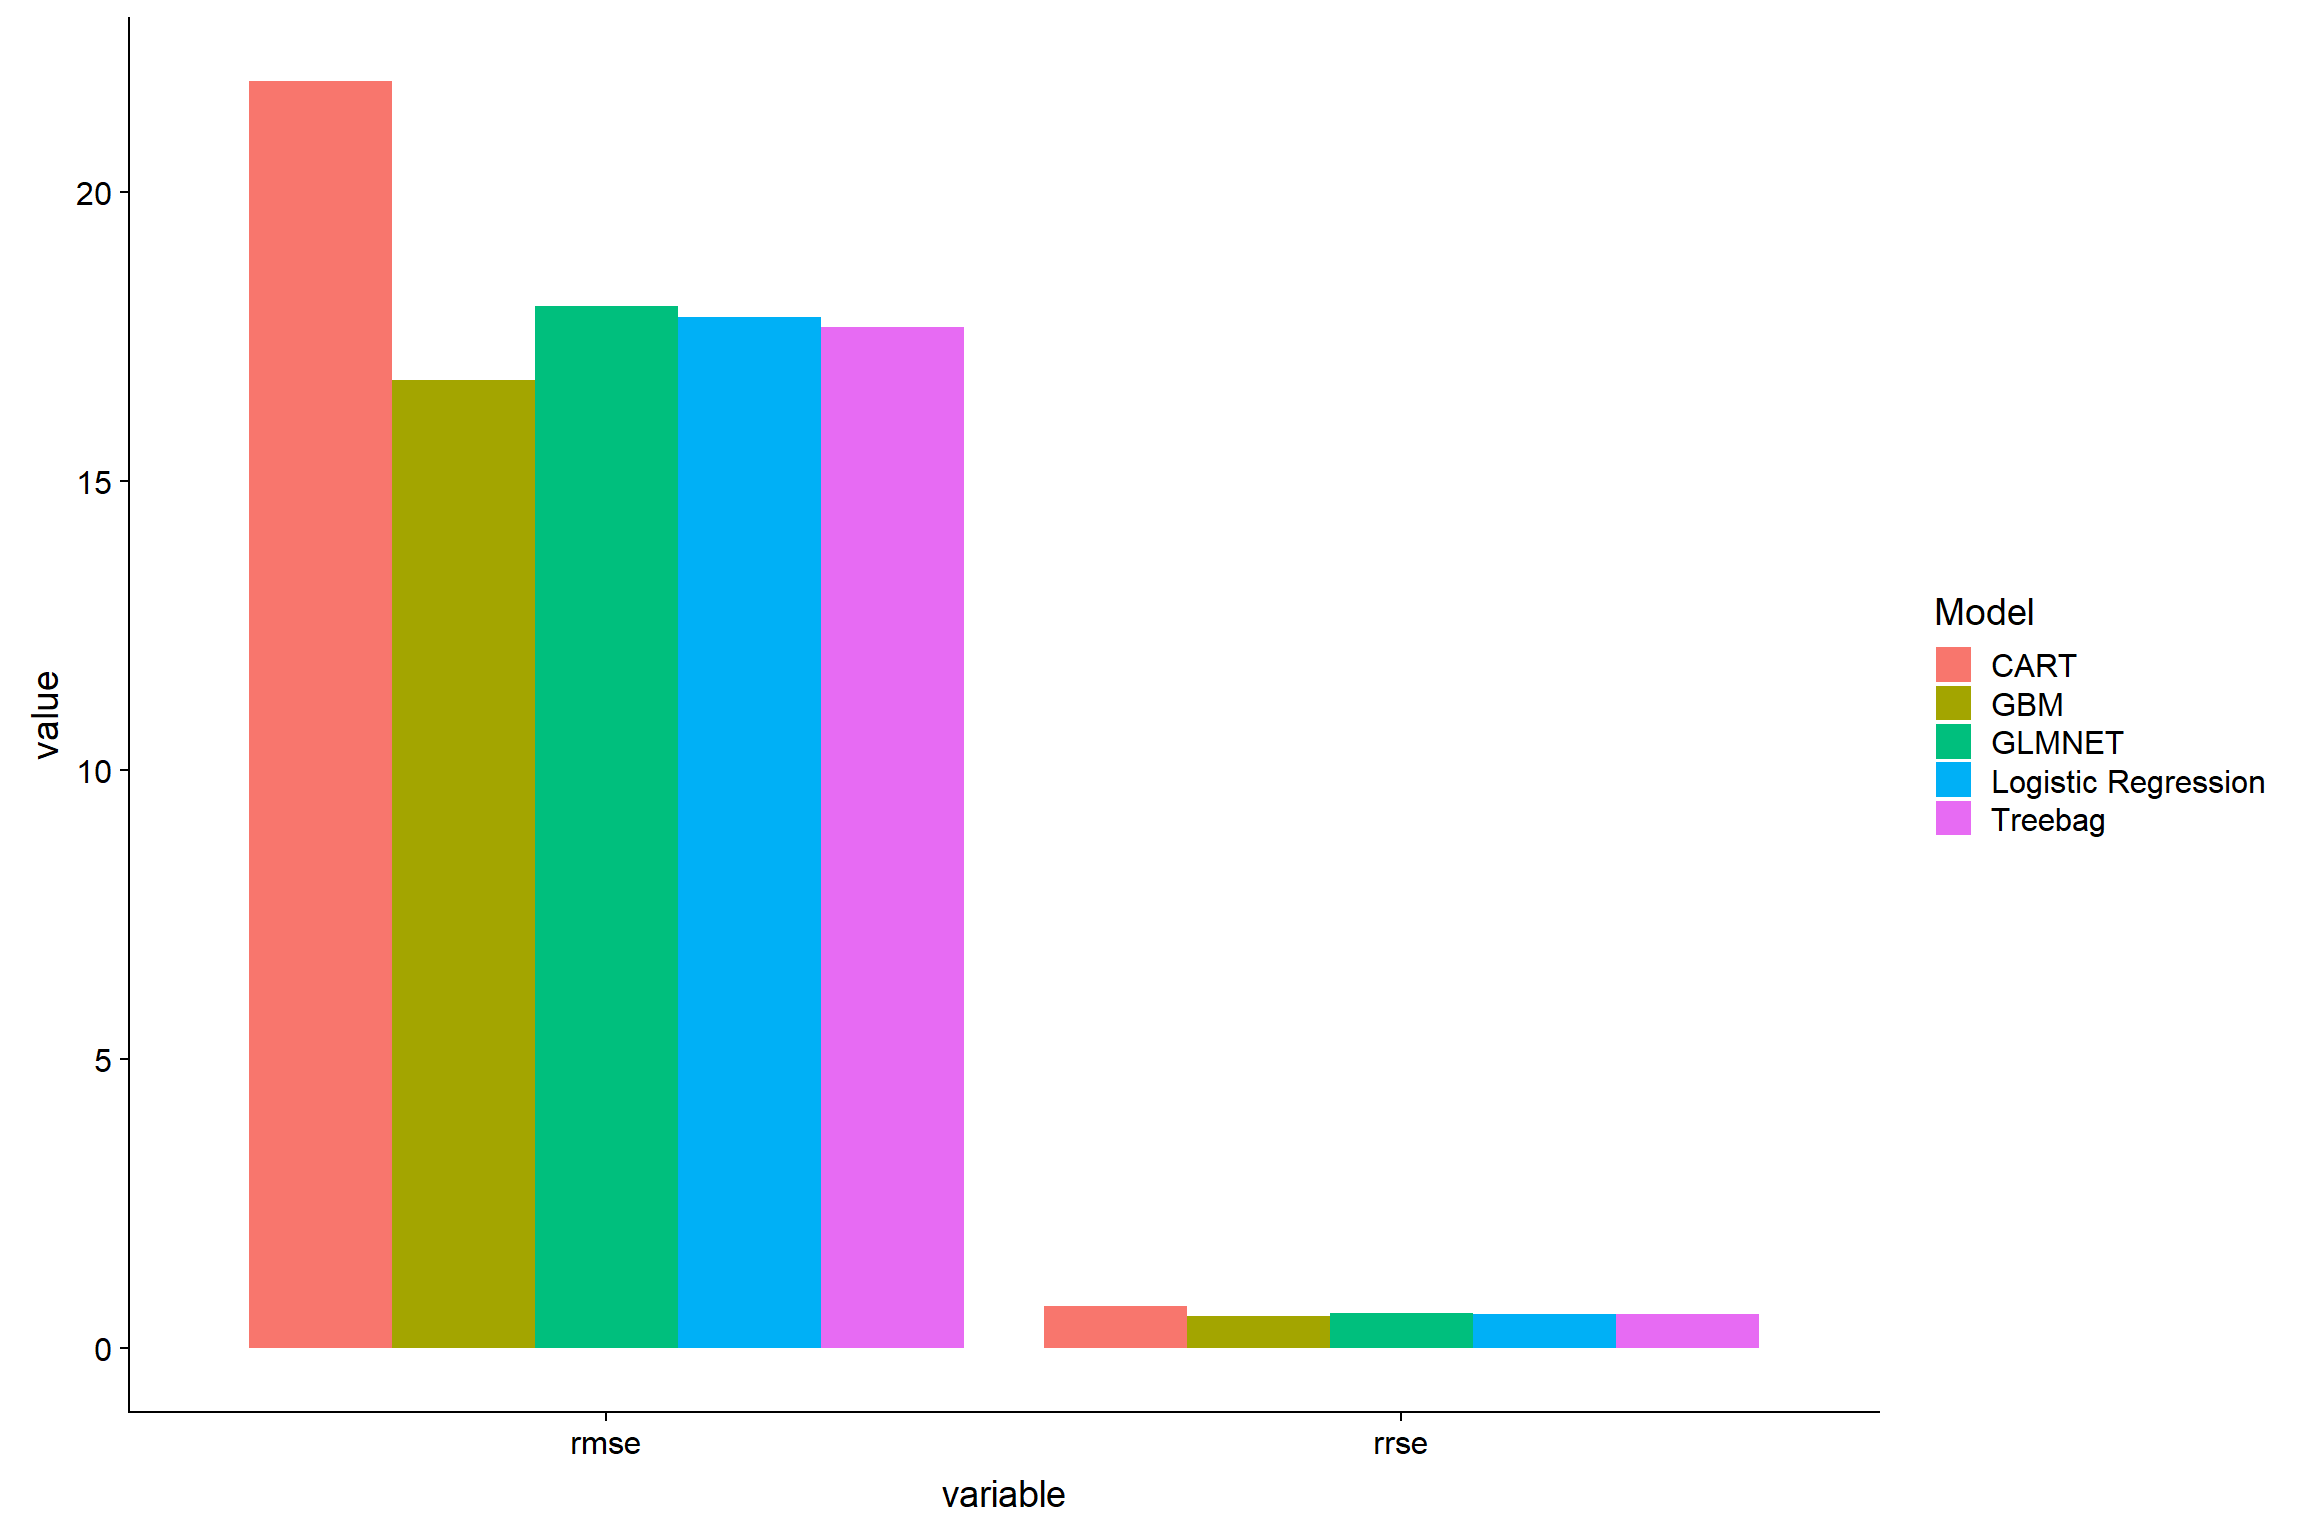
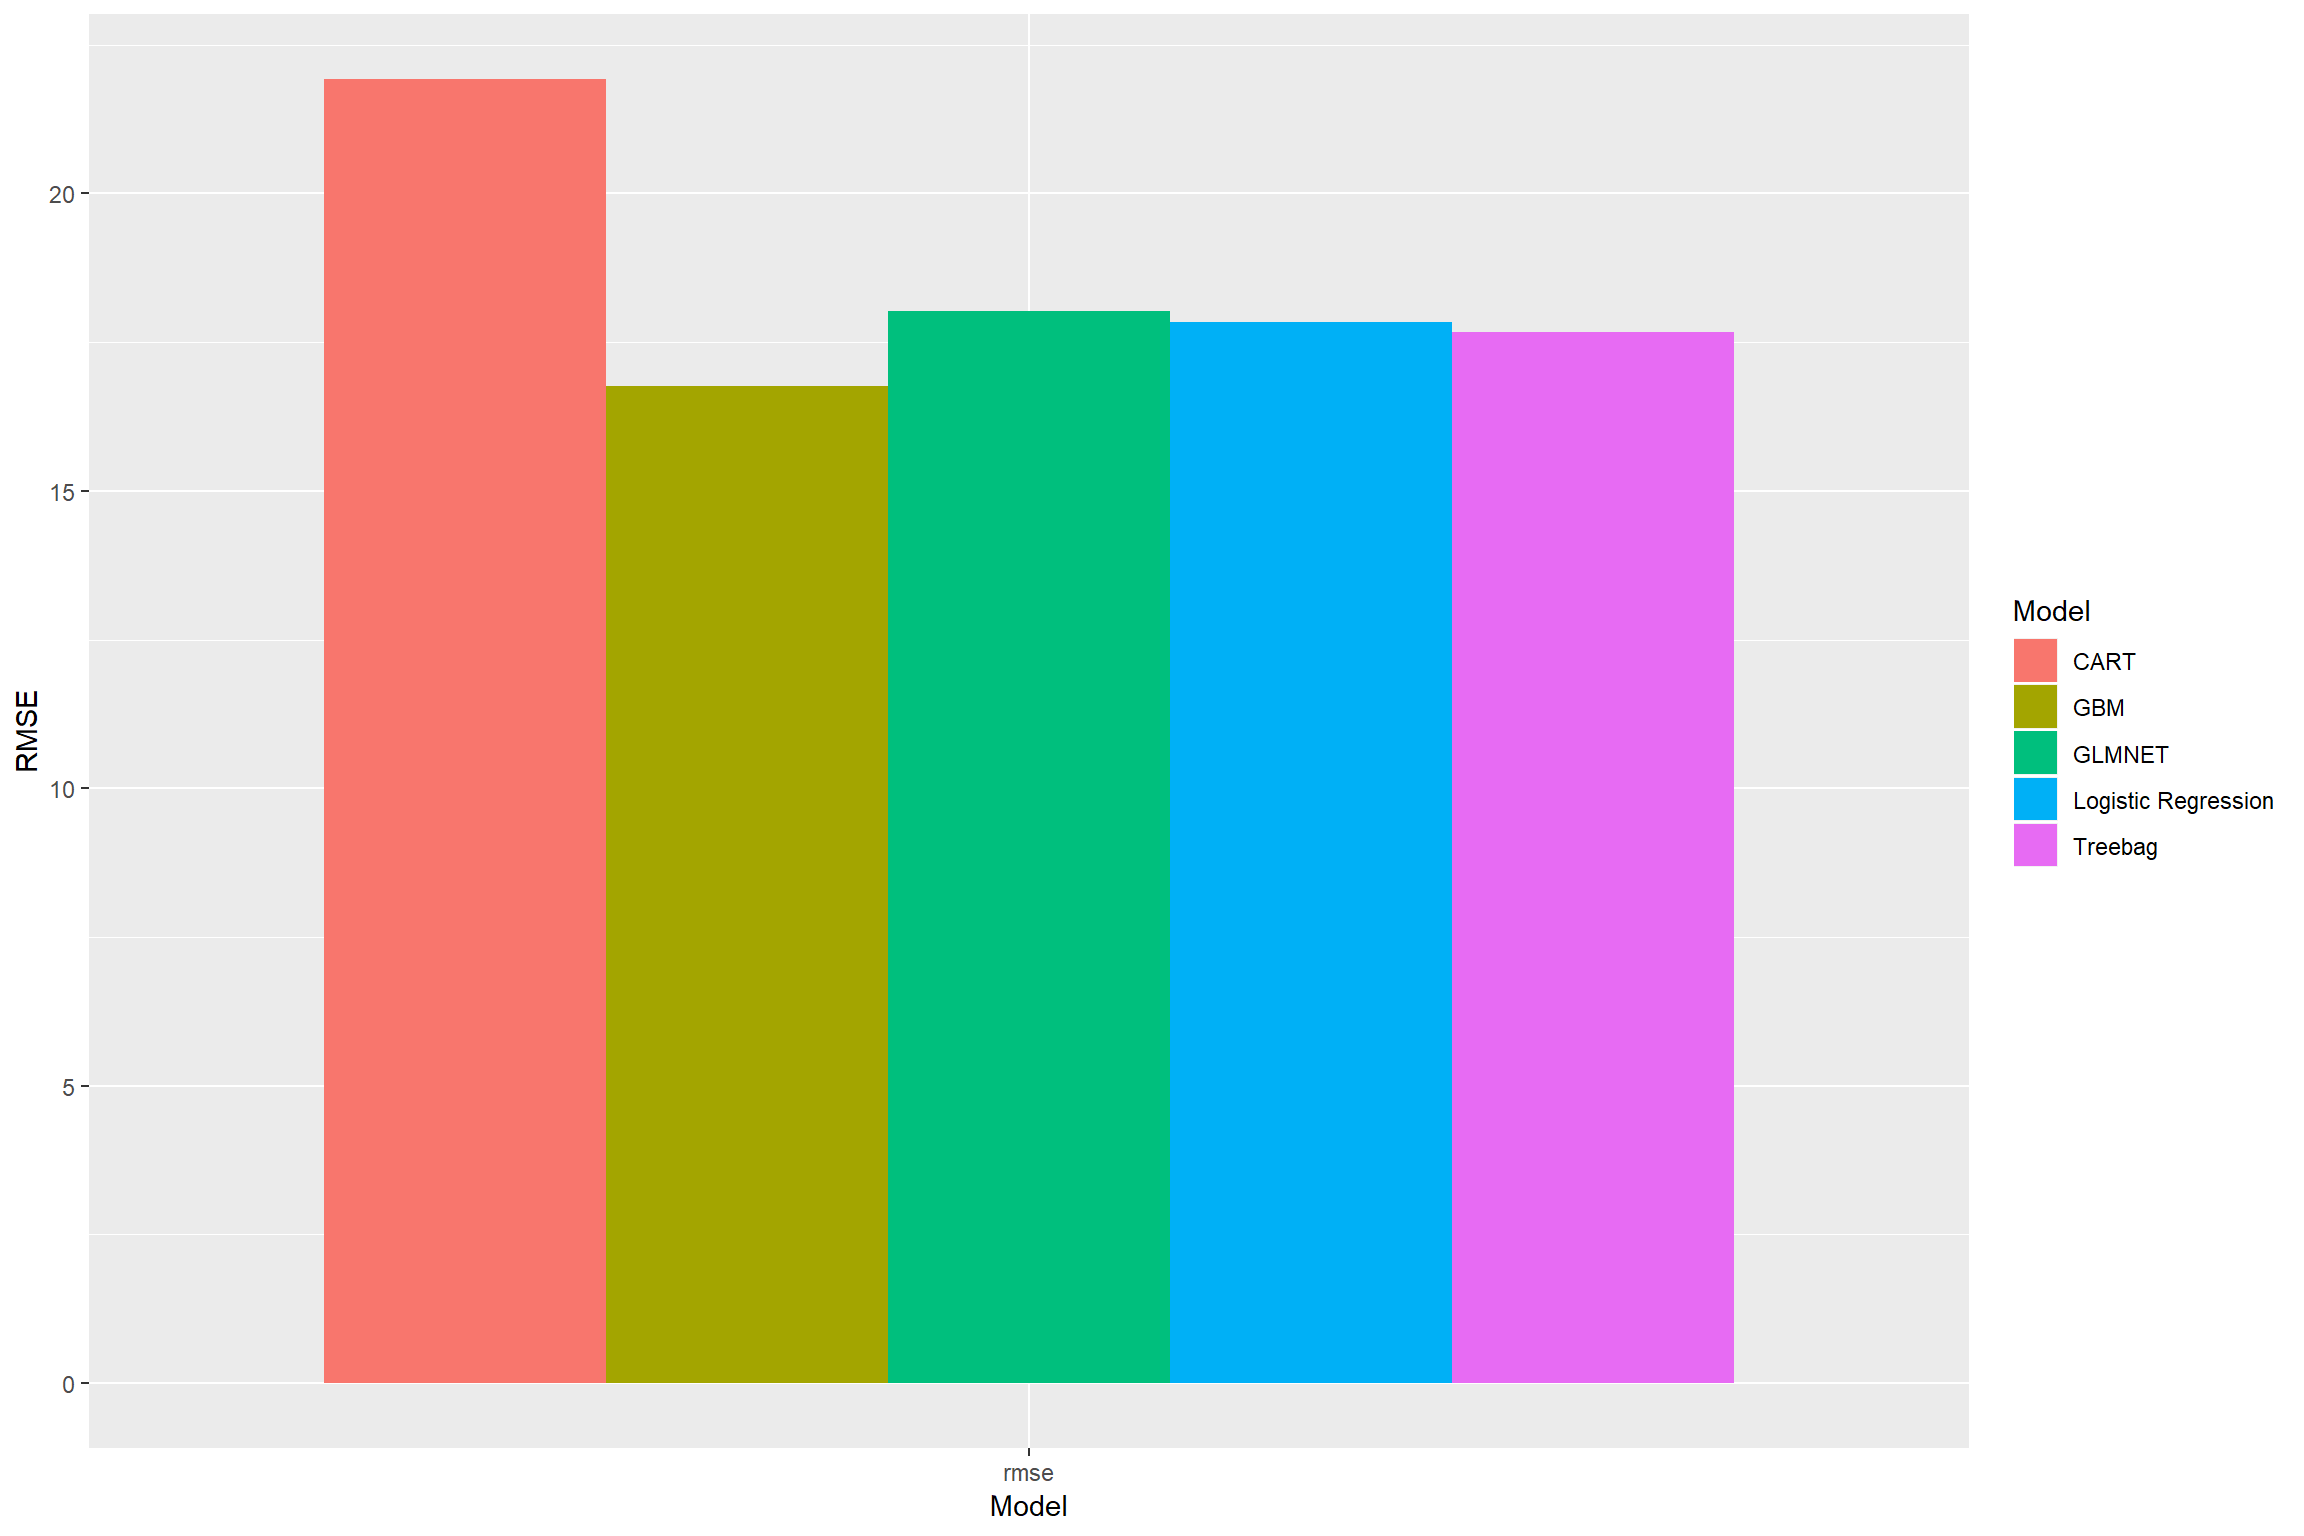
Fixed rmse rrse result

diff --git a/data_modelling.html b/data_modelling.html
@@ -1430,44 +1430,43 @@ kable(predictions)</code></pre>
 <tr class="header">
 <th align="left">Model</th>
 <th align="left">RMSE</th>
-<th align="left">RRSE</th>
 </tr>
 </thead>
 <tbody>
 <tr class="odd">
 <td align="left">Logistic Regression</td>
 <td align="left">17.8355430107563</td>
-<td align="left">0.602024619097772</td>
 </tr>
 <tr class="even">
 <td align="left">GLMNET</td>
 <td align="left">18.0271043052409</td>
-<td align="left">0.608490618774734</td>
 </tr>
 <tr class="odd">
 <td align="left">CART</td>
 <td align="left">21.9158804441193</td>
-<td align="left">0.739753175364846</td>
 </tr>
 <tr class="even">
 <td align="left">Treebag</td>
 <td align="left">17.6720721660914</td>
-<td align="left">0.596506790291909</td>
 </tr>
 <tr class="odd">
 <td align="left">GBM</td>
 <td align="left">16.75691996891</td>
-<td align="left">0.565616553163026</td>
 </tr>
 </tbody>
 </table>
 <pre class="r"><code>prediction$rmse &lt;- as.numeric(as.character(prediction$RMSE))
-prediction$rrse &lt;- as.numeric(as.character(prediction$RRSE))
-prediction &lt;- subset(prediction, select = -c(RRSE,RMSE))
+prediction &lt;- subset(prediction, select = -c(RMSE))
 prediction_m &lt;- gather(prediction, variable, value, -Model, convert = FALSE)
 ggplot(data = prediction_m, aes(x = variable, y = value, fill = Model)) +
-  geom_col(position = position_dodge())</code></pre>
+  geom_col(position = position_dodge()) + ylab(&quot;RMSE&quot;) + xlab(&quot;Model&quot;)</code></pre>
 <p><img src="data_modelling_files/figure-html/unnamed-chunk-4-1.png" width="1152" /></p>
+<pre class="r"><code>prediction2$rrse &lt;- as.numeric(as.character(prediction2$RRSE))
+prediction2 &lt;- subset(prediction2, select = -c(RRSE))
+prediction_m2 &lt;- gather(prediction2, variable, value, -Model, convert = FALSE)
+ggplot(data = prediction_m, aes(x = variable, y = value, fill = Model)) +
+  geom_col(position = position_dodge()) + ylab(&quot;RRSE&quot;) + xlab(&quot;Model&quot;)</code></pre>
+<p><img src="data_modelling_files/figure-html/unnamed-chunk-5-1.png" width="1152" /></p>
 </div>
 <div id="conclusions" class="section level2">
 <h2>Conclusions:</h2>
